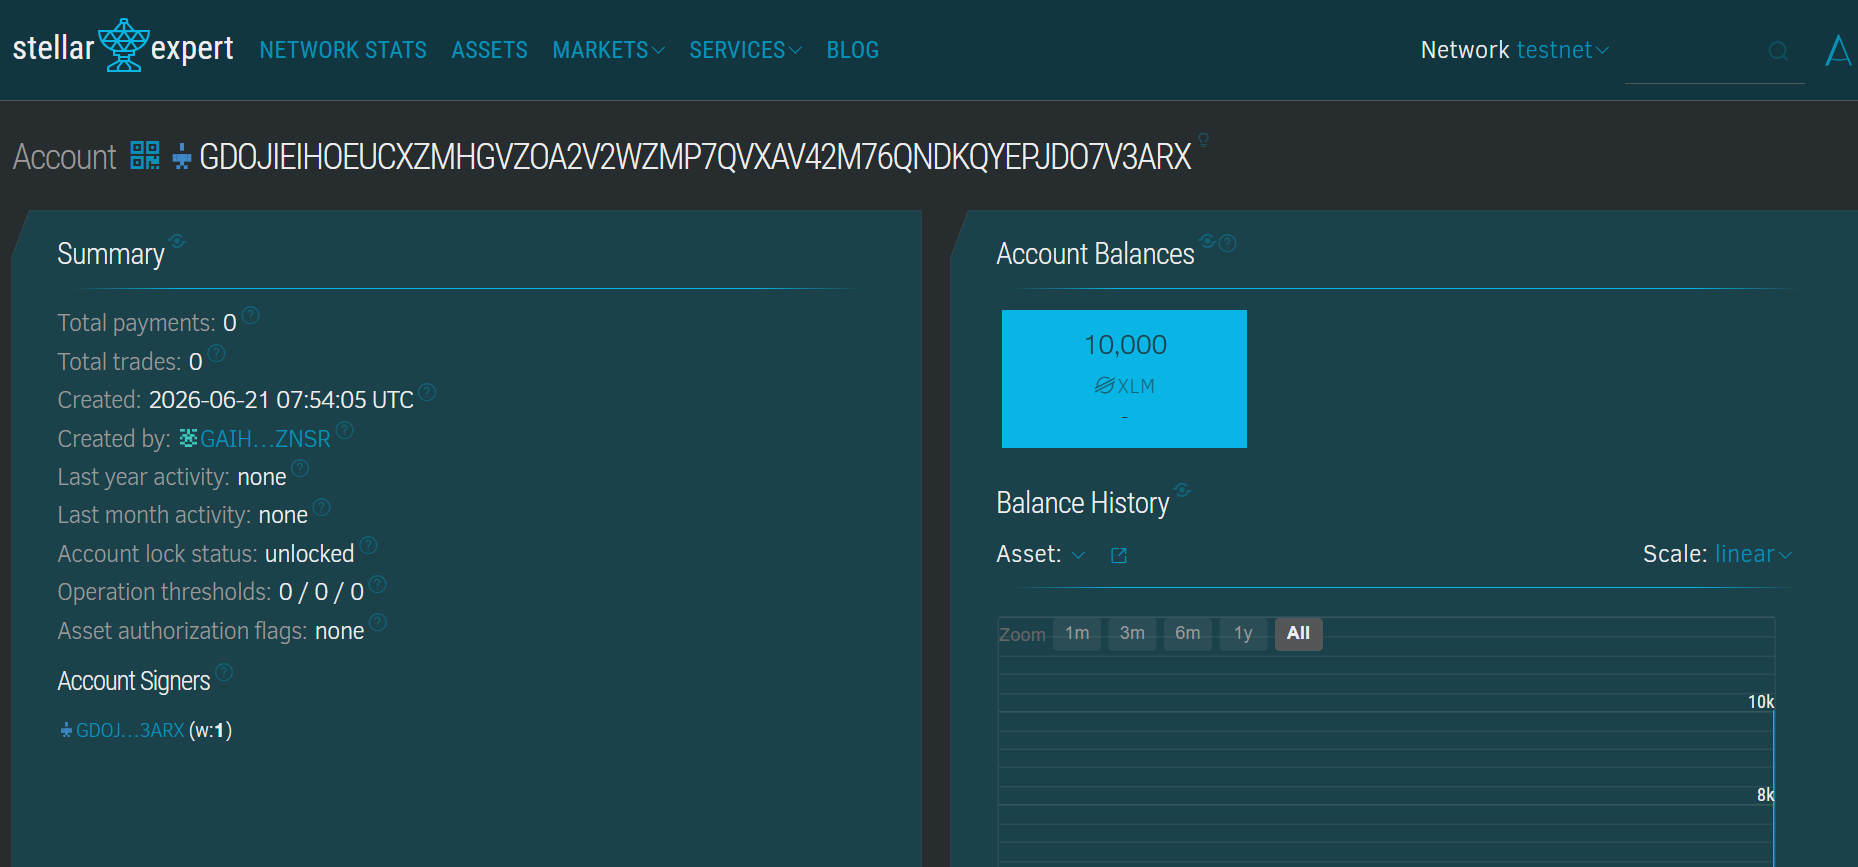
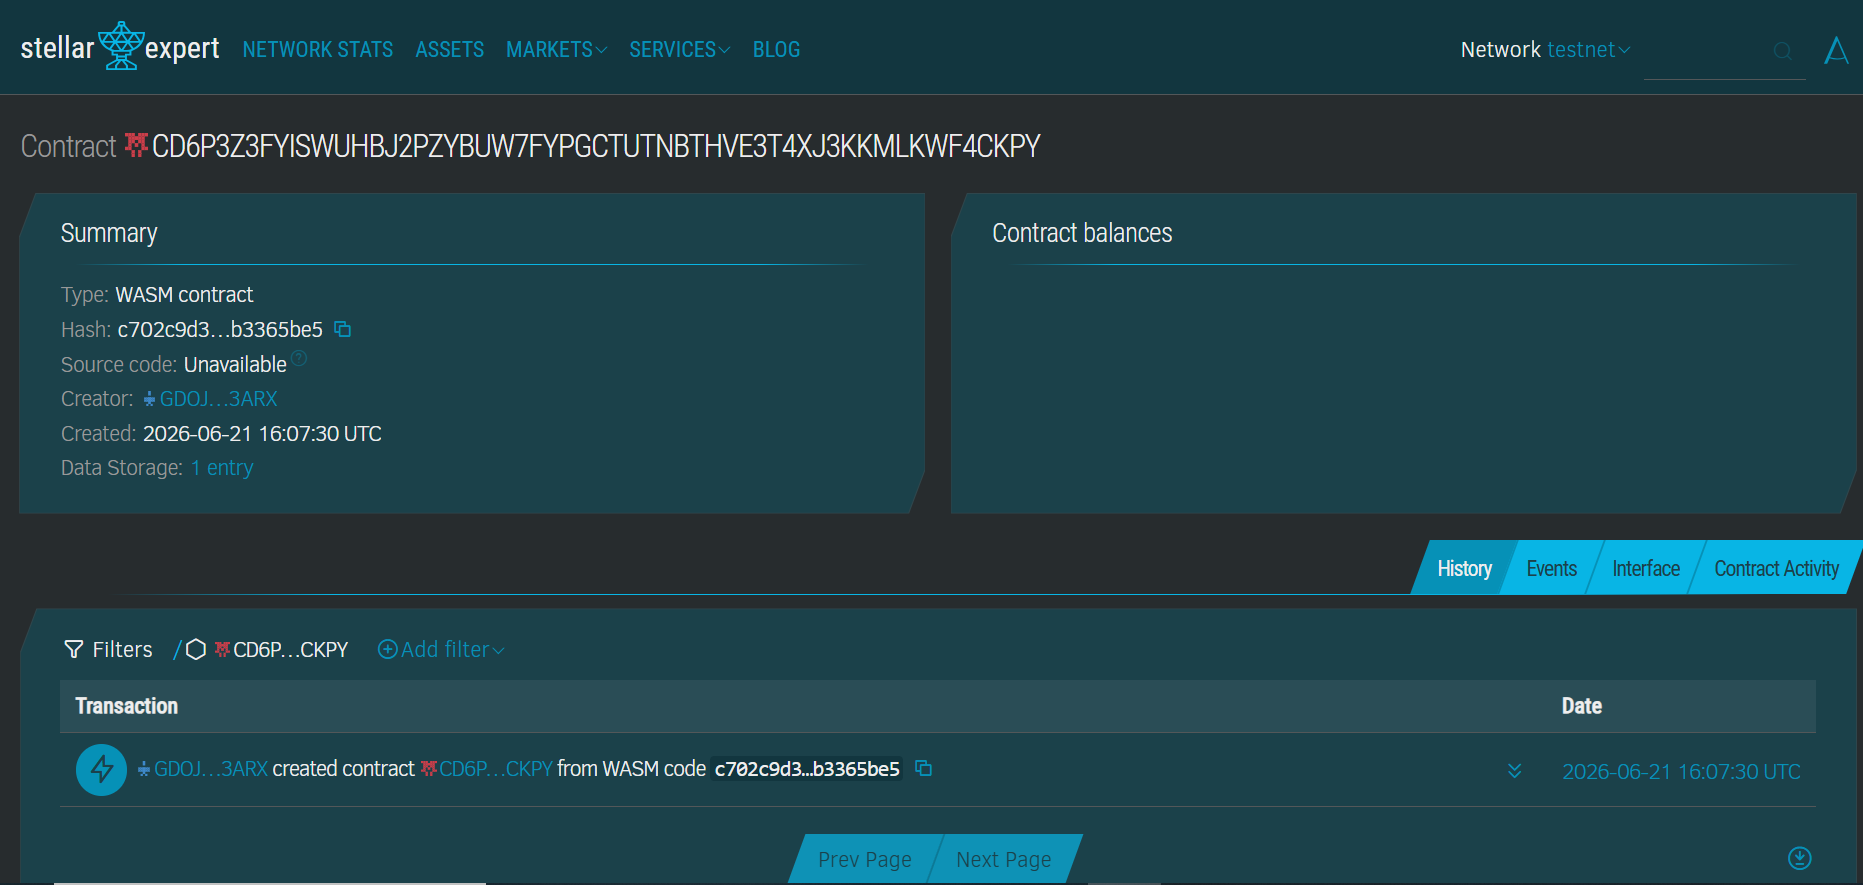
fix: readme with the real contract deploy id

diff --git a/README.md b/README.md
@@ -20,8 +20,8 @@ A state-of-the-art, responsive decentralized crowdfunding platform built with a 
 
 | Resource | Value / Link |
 |---|---|
-| **Contract ID** | `CDD2XL5ZSING7YMTJNPE76KJG5WWRUDRZUAJV7WH6TCYSDEC5HSRP53W` |
-| **Stellar Expert Explorer** | [View Contract on Stellar Expert](https://stellar.expert/explorer/testnet/contract/CDD2XL5ZSING7YMTJNPE76KJG5WWRUDRZUAJV7WH6TCYSDEC5HSRP53W) |
+| **Contract ID** | `CD6P3Z3FYISWUHBJ2PZYBUW7FYPGCTUTNBTHVE3T4XJ3KKMLKWF4CKPY` |
+| **Stellar Expert Explorer** | [View Contract on Stellar Expert](https://stellar.expert/explorer/testnet/contract/CD6P3Z3FYISWUHBJ2PZYBUW7FYPGCTUTNBTHVE3T4XJ3KKMLKWF4CKPY) |
 | **Deployer Wallet Address** | `GDOJIEIHOEUCXZMHGVZOA2V2WZMP7QVXAV42M76QNDKQYEPJDO7V3ARX` |
 | **Network** | Stellar Testnet |
 | **RPC URL** | `https://soroban-testnet.stellar.org` |